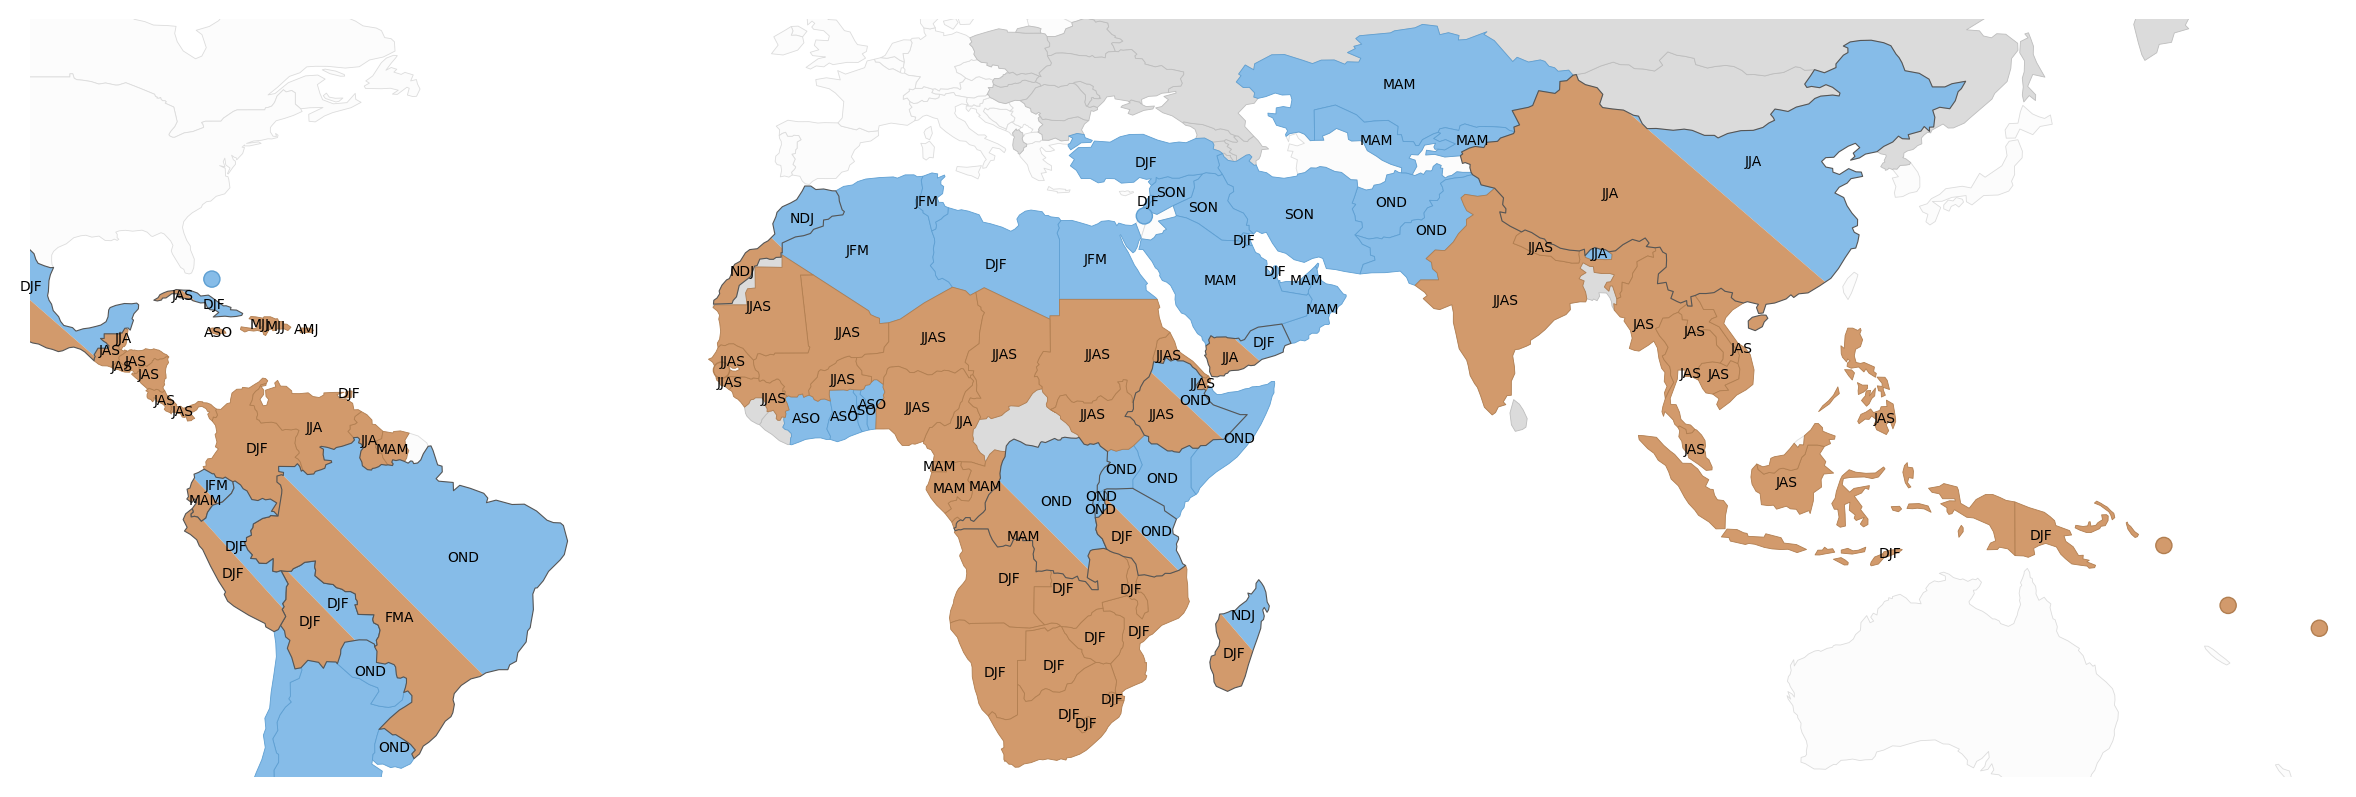
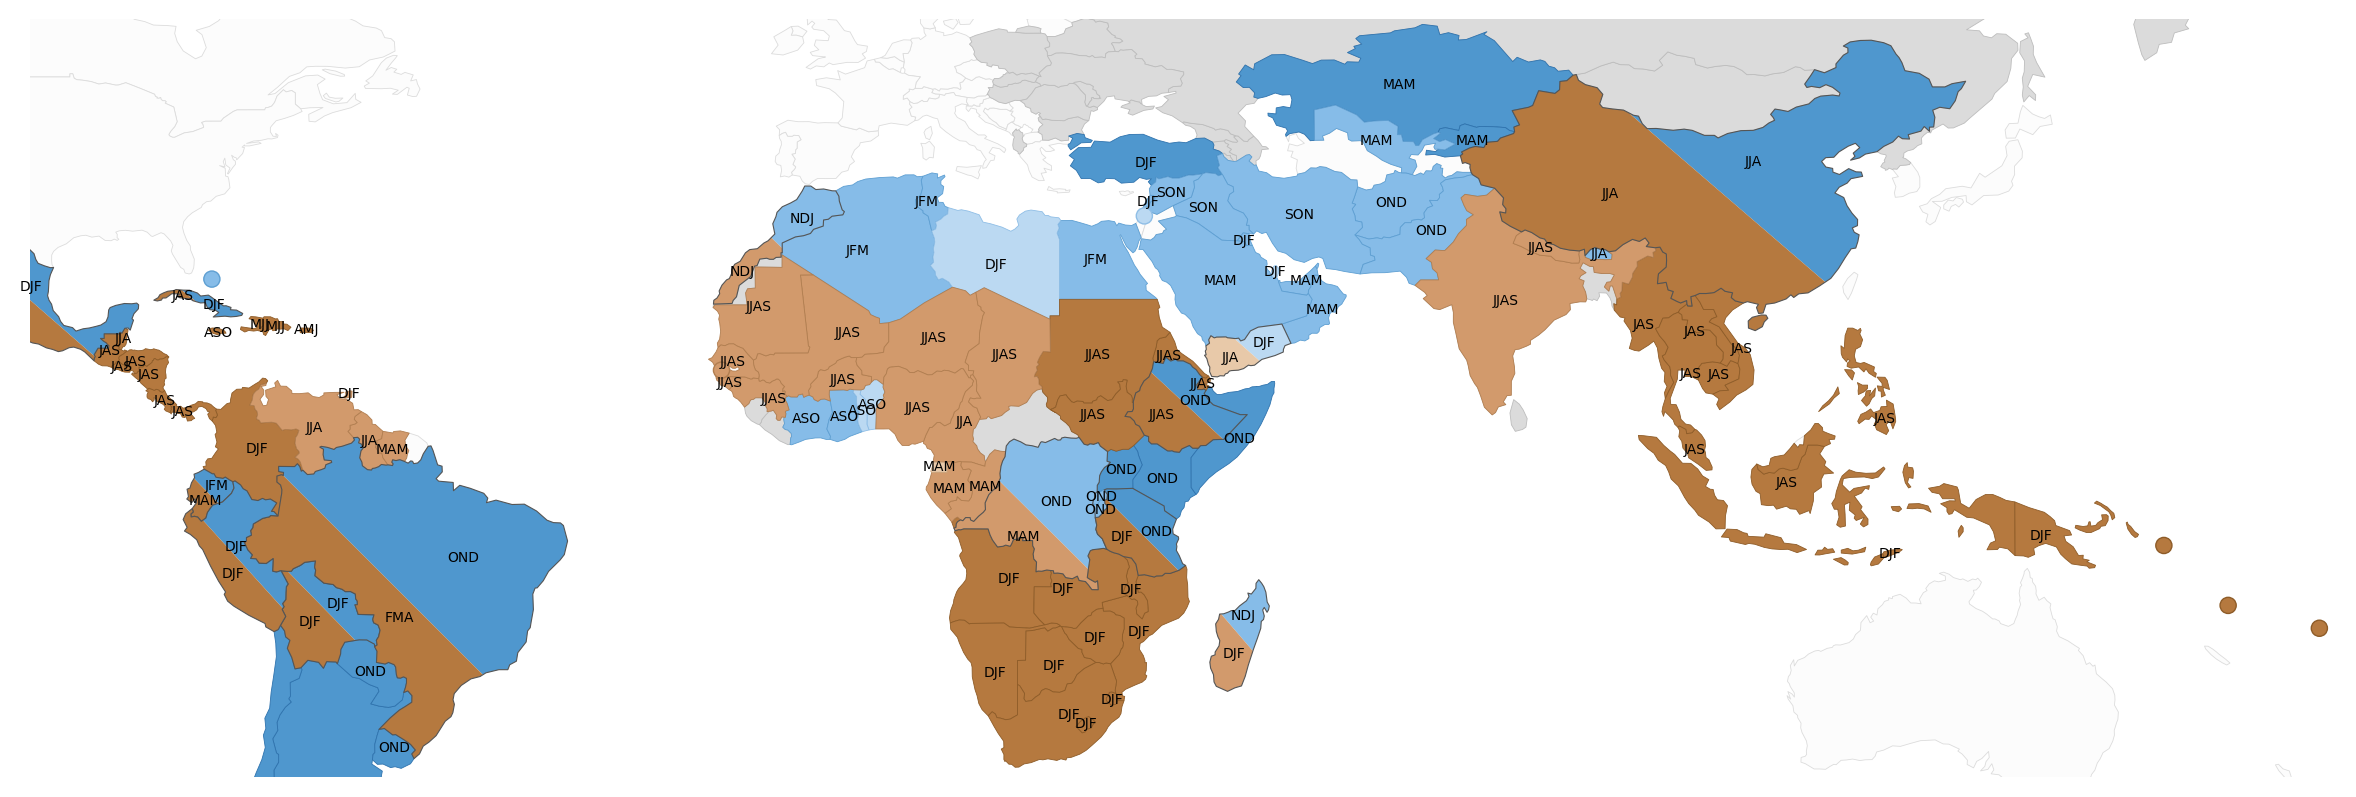
Shade the ENSO map by evidence strength (confidence)
Map fills now ramp by per-country evidence: robust = strong/dark, moderate =
mid, single-study = pale (both hues, both phases, and split halves). Adds
_LIT_EVIDENCE + _RAMP; legend shows the pale→dark = weak→robust ramp.

diff --git a/docs/index.html b/docs/index.html
@@ -639,7 +639,7 @@
       <div class="map-zoom" style="max-width:1140px;margin:0 auto;"><img src="maps/lit_enso_lanina.png" alt="Typical La Niña rainfall impacts across humanitarian-priority regions"></div>
       <p class="enso-note" style="margin:0.3rem auto 0;max-width:1140px;font-size:0.73rem;color:#666;">Showing <strong>La&nbsp;Niña</strong> — the typical (approximate) opposite of El&nbsp;Niño; ENSO is asymmetric, so the real La&nbsp;Niña pattern can differ in magnitude.</p>
     </div>
-    <div style="display:flex;flex-wrap:wrap;gap:0.4rem 1.1rem;font-size:0.72rem;color:#444;margin:0.5rem 0 0.2rem;"><span><span style="display:inline-block;width:0.9em;height:0.9em;border-radius:2px;vertical-align:middle;margin-right:0.3em;background:#D29A6C;border:1px solid #B17E50;"></span>drier</span><span><span style="display:inline-block;width:0.9em;height:0.9em;border-radius:2px;vertical-align:middle;margin-right:0.3em;background:#86BCE8;border:1px solid #5E9FD2;"></span>wetter</span><span><span style="display:inline-block;width:0.9em;height:0.9em;border-radius:2px;vertical-align:middle;margin-right:0.3em;background:linear-gradient(135deg,#86BCE8 50%,#D29A6C 50%);border:1px solid #777;"></span>Opposing signals by season (e.g. Ethiopia, Yemen)</span><span><span style="display:inline-block;width:0.9em;height:0.9em;border-radius:2px;vertical-align:middle;margin-right:0.3em;background:#DBDBDB;border:1px solid #BDBDBD;"></span>Monitored — no documented link</span><span><span style="display:inline-block;width:0.9em;height:0.9em;border-radius:2px;vertical-align:middle;margin-right:0.3em;background:#FCFCFC;border:1px solid #DCDCDC;"></span>Not monitored (not researched)</span></div>
+    <div style="display:flex;flex-wrap:wrap;gap:0.4rem 1.1rem;font-size:0.72rem;color:#444;margin:0.5rem 0 0.2rem;align-items:center;"><span style="margin-right:0.35em;"><span style="display:inline-block;width:0.9em;height:0.9em;border-radius:2px;vertical-align:middle;margin-right:0;background:#E8C9A9;border:1px solid #C9A57E;"></span><span style="display:inline-block;width:0.9em;height:0.9em;border-radius:2px;vertical-align:middle;margin-right:0;background:#D29A6C;border:1px solid #B17E50;"></span><span style="display:inline-block;width:0.9em;height:0.9em;border-radius:2px;vertical-align:middle;margin-right:0;background:#B5793F;border:1px solid #8E5C28;"></span></span><span style="margin-left:-0.2em;">drier</span><span style="margin-right:0.35em;"><span style="display:inline-block;width:0.9em;height:0.9em;border-radius:2px;vertical-align:middle;margin-right:0;background:#BBD9F2;border:1px solid #8FBEE6;"></span><span style="display:inline-block;width:0.9em;height:0.9em;border-radius:2px;vertical-align:middle;margin-right:0;background:#86BCE8;border:1px solid #5E9FD2;"></span><span style="display:inline-block;width:0.9em;height:0.9em;border-radius:2px;vertical-align:middle;margin-right:0;background:#4F97CE;border:1px solid #2F73AE;"></span></span><span style="margin-left:-0.2em;">wetter</span><span style="color:#777;">— shade = evidence: <span style="color:#aaa;">pale</span> single-study &rarr; <span style="color:#333;">dark</span> robust</span><span><span style="display:inline-block;width:0.9em;height:0.9em;border-radius:2px;vertical-align:middle;margin-right:0.3em;background:linear-gradient(135deg,#86BCE8 50%,#D29A6C 50%);border:1px solid #777;"></span>Opposing signals by season (split)</span><span><span style="display:inline-block;width:0.9em;height:0.9em;border-radius:2px;vertical-align:middle;margin-right:0.3em;background:#DBDBDB;border:1px solid #BDBDBD;"></span>Monitored — no documented link</span><span><span style="display:inline-block;width:0.9em;height:0.9em;border-radius:2px;vertical-align:middle;margin-right:0.3em;background:#FCFCFC;border:1px solid #DCDCDC;"></span>Not monitored (not researched)</span></div>
     <p class="enso-note" style="margin:0.2rem auto 0.9rem;max-width:1140px;font-size:0.73rem;color:#666;">
       Countries whose seasons respond in opposite directions (e.g. Ethiopia, Yemen, Brazil, Peru, China) are
       split; 3-month season codes (e.g. OND, JJAS, DJF) label each signal. <strong>Grey</strong> = monitored but

diff --git a/teleconnection_survey.py b/teleconnection_survey.py
@@ -1223,6 +1223,56 @@ _BROWN, _BROWN_E = "#D29A6C", "#B17E50"  # drier
 _GREY_NE, _GREY_NE_E = "#DBDBDB", "#BDBDBD"    # monitored, no documented link
 _GREY_NS, _GREY_NS_E = "#FCFCFC", "#DCDCDC"    # not monitored (near-white)
 
+# Per-country evidence strength -> map shade (robust dark, single-study pale)
+_LIT_EVIDENCE = {
+    "AFG": "moderate", "AGO": "robust", "ARE": "moderate", "ARG":
+    "robust", "ATG": "moderate", "BDI": "moderate", "BEN": "single-study",
+    "BES": "moderate", "BFA": "moderate", "BHS": "moderate", "BLZ":
+    "robust", "BOL": "robust", "BRA": "robust", "BRB": "moderate", "BTN":
+    "moderate", "BWA": "robust", "CHL": "robust", "CHN": "robust", "CIV":
+    "moderate", "CMR": "moderate", "COD": "moderate", "COG": "moderate",
+    "COL": "robust", "CPV": "moderate", "CRI": "robust", "CUB": "robust",
+    "CYM": "single-study", "DJI": "robust", "DMA": "single-study", "DOM":
+    "robust", "DZA": "moderate", "ECU": "robust", "EGY": "moderate",
+    "ERI": "robust", "ETH": "robust", "FJI": "robust", "FSM": "robust",
+    "GAB": "moderate", "GHA": "moderate", "GIN": "moderate", "GLP":
+    "single-study", "GMB": "moderate", "GNB": "moderate", "GNQ":
+    "single-study", "GRD": "single-study", "GTM": "robust", "GUF":
+    "single-study", "GUY": "moderate", "HND": "robust", "HTI": "robust",
+    "IDN": "robust", "IND": "moderate", "IRN": "moderate", "IRQ":
+    "moderate", "JAM": "robust", "KAZ": "robust", "KEN": "robust", "KGZ":
+    "robust", "KHM": "robust", "KIR": "robust", "KNA": "single-study",
+    "KWT": "moderate", "LAO": "robust", "LBN": "moderate", "LBY":
+    "single-study", "LCA": "single-study", "LSO": "robust", "MAR":
+    "moderate", "MDG": "moderate", "MDV": "moderate", "MEX": "robust",
+    "MHL": "robust", "MLI": "moderate", "MMR": "robust", "MOZ": "robust",
+    "MRT": "moderate", "MTQ": "single-study", "MWI": "robust", "MYS":
+    "robust", "NAM": "robust", "NER": "moderate", "NGA": "moderate",
+    "NIC": "robust", "OMN": "moderate", "PAK": "moderate", "PAN":
+    "robust", "PER": "robust", "PHL": "robust", "PNG": "robust", "PRI":
+    "robust", "PRY": "robust", "PSE": "single-study", "QAT":
+    "single-study", "RWA": "moderate", "SAU": "moderate", "SDN": "robust",
+    "SEN": "moderate", "SLB": "robust", "SLV": "robust", "SOM": "robust",
+    "SSD": "robust", "SUR": "moderate", "SWZ": "robust", "SYC":
+    "single-study", "SYR": "moderate", "TCA": "single-study", "TCD":
+    "moderate", "TGO": "single-study", "THA": "robust", "TLS": "robust",
+    "TON": "robust", "TTO": "moderate", "TUN": "moderate", "TUR":
+    "robust", "TZA": "robust", "UGA": "robust", "URY": "robust", "UZB":
+    "moderate", "VCT": "single-study", "VEN": "moderate", "VGB":
+    "single-study", "VIR": "moderate", "VNM": "robust", "VUT": "robust",
+    "YEM": "single-study", "ZAF": "robust", "ZMB": "robust", "ZWE":
+    "robust"
+}
+_RAMP = {
+    # (direction, evidence) -> (fill, edge).  direction 'wet' = El Nino wetter.
+    ("wet", "robust"):       ("#4F97CE", "#2F73AE"),
+    ("wet", "moderate"):     ("#86BCE8", "#5E9FD2"),
+    ("wet", "single-study"): ("#BBD9F2", "#8FBEE6"),
+    ("dry", "robust"):       ("#B5793F", "#8E5C28"),
+    ("dry", "moderate"):     ("#D29A6C", "#B17E50"),
+    ("dry", "single-study"): ("#E8C9A9", "#C9A57E"),
+}
+
 
 def plot_literature_enso_map(gdf: gpd.GeoDataFrame, out_dir: Path,
                              phase: str = "elnino") -> None:
@@ -1230,12 +1280,13 @@ def plot_literature_enso_map(gdf: gpd.GeoDataFrame, out_dir: Path,
     as the correlation maps, annotated with each signal's season. ``phase`` is
     'elnino' or 'lanina'; the La Niña map is the typical (approximate) opposite,
     since ENSO is asymmetric. Saved as maps/lit_enso_{phase}.png."""
-    # For El Niño: _LIT_WET → blue (wetter), _LIT_DRY → brown (drier).
-    # For La Niña: swap (typical opposite response).
-    if phase == "elnino":
-        wet_fill, dry_fill = (_BLUE, _BLUE_E), (_BROWN, _BROWN_E)
-    else:
-        wet_fill, dry_fill = (_BROWN, _BROWN_E), (_BLUE, _BLUE_E)
+    flip = phase == "lanina"
+
+    def _fill(direction, iso):
+        """(face, edge) by direction ('wet'/'dry'), country evidence, and phase."""
+        eff = ("dry" if direction == "wet" else "wet") if flip else direction
+        ev = _LIT_EVIDENCE.get(iso, "moderate")
+        return _RAMP.get((eff, ev), _RAMP[(eff, "moderate")])
 
     is_dot = gdf.geometry.apply(_is_dot_country)
     g_poly, g_dot = gdf[~is_dot], gdf[is_dot]
@@ -1255,10 +1306,14 @@ def plot_literature_enso_map(gdf: gpd.GeoDataFrame, out_dir: Path,
 
     wet_poly = g_poly[g_poly["iso3"].isin(_LIT_WET)]
     dry_poly = g_poly[g_poly["iso3"].isin(_LIT_DRY)]
-    if len(wet_poly):
-        wet_poly.plot(ax=ax, color=wet_fill[0], edgecolor=wet_fill[1], linewidth=0.3)
-    if len(dry_poly):
-        dry_poly.plot(ax=ax, color=dry_fill[0], edgecolor=dry_fill[1], linewidth=0.3)
+    # Shade by evidence strength (robust = strong, single-study = pale)
+    for direction, sub in (("wet", wet_poly), ("dry", dry_poly)):
+        for ev in ("robust", "moderate", "single-study"):
+            part = sub[sub["iso3"].map(lambda i: _LIT_EVIDENCE.get(i, "moderate")) == ev]
+            if len(part):
+                eff = ("dry" if direction == "wet" else "wet") if flip else direction
+                face, edge = _RAMP.get((eff, ev), _RAMP[(eff, "moderate")])
+                part.plot(ax=ax, color=face, edgecolor=edge, linewidth=0.3)
 
     def _label(x, y, text):
         ax.annotate(text, (x, y), ha="center", va="center", fontsize=5.0,
@@ -1279,10 +1334,10 @@ def plot_literature_enso_map(gdf: gpd.GeoDataFrame, out_dir: Path,
         upper, lower = _diagonal_halves(geom)
         if not upper.is_empty:
             gpd.GeoDataFrame(geometry=[upper], crs="EPSG:4326").plot(
-                ax=ax, color=wet_fill[0], edgecolor="none")
+                ax=ax, color=_fill("wet", row["iso3"])[0], edgecolor="none")
         if not lower.is_empty:
             gpd.GeoDataFrame(geometry=[lower], crs="EPSG:4326").plot(
-                ax=ax, color=dry_fill[0], edgecolor="none")
+                ax=ax, color=_fill("dry", row["iso3"])[0], edgecolor="none")
         gpd.GeoDataFrame(geometry=[geom], crs="EPSG:4326").plot(
             ax=ax, facecolor="none", edgecolor="#555", linewidth=0.4)
         wet_s, dry_s = _LIT_BI_SEASON.get(row["iso3"], ("", ""))
@@ -1296,9 +1351,9 @@ def plot_literature_enso_map(gdf: gpd.GeoDataFrame, out_dir: Path,
     for _, row in g_dot.iterrows():
         iso = row["iso3"]
         if iso in _LIT_WET:
-            face, edge = wet_fill
+            face, edge = _fill("wet", iso)
         elif iso in _LIT_DRY:
-            face, edge = dry_fill
+            face, edge = _fill("dry", iso)
         else:
             continue
         cx, cy = _dot_center(row.geometry)
@@ -1562,7 +1617,7 @@ def generate_html_report(cfg: dict) -> None:
       <div class="map-zoom" style="max-width:1140px;margin:0 auto;"><img src="maps/lit_enso_lanina.png" alt="Typical La Niña rainfall impacts across humanitarian-priority regions"></div>
       <p class="enso-note" style="margin:0.3rem auto 0;max-width:1140px;font-size:0.73rem;color:#666;">Showing <strong>La&nbsp;Niña</strong> — the typical (approximate) opposite of El&nbsp;Niño; ENSO is asymmetric, so the real La&nbsp;Niña pattern can differ in magnitude.</p>
     </div>
-    <div style="display:flex;flex-wrap:wrap;gap:0.4rem 1.1rem;font-size:0.72rem;color:#444;margin:0.5rem 0 0.2rem;"><span><span style="display:inline-block;width:0.9em;height:0.9em;border-radius:2px;vertical-align:middle;margin-right:0.3em;background:#D29A6C;border:1px solid #B17E50;"></span>drier</span><span><span style="display:inline-block;width:0.9em;height:0.9em;border-radius:2px;vertical-align:middle;margin-right:0.3em;background:#86BCE8;border:1px solid #5E9FD2;"></span>wetter</span><span><span style="display:inline-block;width:0.9em;height:0.9em;border-radius:2px;vertical-align:middle;margin-right:0.3em;background:linear-gradient(135deg,#86BCE8 50%,#D29A6C 50%);border:1px solid #777;"></span>Opposing signals by season (e.g. Ethiopia, Yemen)</span><span><span style="display:inline-block;width:0.9em;height:0.9em;border-radius:2px;vertical-align:middle;margin-right:0.3em;background:#DBDBDB;border:1px solid #BDBDBD;"></span>Monitored — no documented link</span><span><span style="display:inline-block;width:0.9em;height:0.9em;border-radius:2px;vertical-align:middle;margin-right:0.3em;background:#FCFCFC;border:1px solid #DCDCDC;"></span>Not monitored (not researched)</span></div>
+    <div style="display:flex;flex-wrap:wrap;gap:0.4rem 1.1rem;font-size:0.72rem;color:#444;margin:0.5rem 0 0.2rem;align-items:center;"><span style="margin-right:0.35em;"><span style="display:inline-block;width:0.9em;height:0.9em;border-radius:2px;vertical-align:middle;margin-right:0;background:#E8C9A9;border:1px solid #C9A57E;"></span><span style="display:inline-block;width:0.9em;height:0.9em;border-radius:2px;vertical-align:middle;margin-right:0;background:#D29A6C;border:1px solid #B17E50;"></span><span style="display:inline-block;width:0.9em;height:0.9em;border-radius:2px;vertical-align:middle;margin-right:0;background:#B5793F;border:1px solid #8E5C28;"></span></span><span style="margin-left:-0.2em;">drier</span><span style="margin-right:0.35em;"><span style="display:inline-block;width:0.9em;height:0.9em;border-radius:2px;vertical-align:middle;margin-right:0;background:#BBD9F2;border:1px solid #8FBEE6;"></span><span style="display:inline-block;width:0.9em;height:0.9em;border-radius:2px;vertical-align:middle;margin-right:0;background:#86BCE8;border:1px solid #5E9FD2;"></span><span style="display:inline-block;width:0.9em;height:0.9em;border-radius:2px;vertical-align:middle;margin-right:0;background:#4F97CE;border:1px solid #2F73AE;"></span></span><span style="margin-left:-0.2em;">wetter</span><span style="color:#777;">— shade = evidence: <span style="color:#aaa;">pale</span> single-study &rarr; <span style="color:#333;">dark</span> robust</span><span><span style="display:inline-block;width:0.9em;height:0.9em;border-radius:2px;vertical-align:middle;margin-right:0.3em;background:linear-gradient(135deg,#86BCE8 50%,#D29A6C 50%);border:1px solid #777;"></span>Opposing signals by season (split)</span><span><span style="display:inline-block;width:0.9em;height:0.9em;border-radius:2px;vertical-align:middle;margin-right:0.3em;background:#DBDBDB;border:1px solid #BDBDBD;"></span>Monitored — no documented link</span><span><span style="display:inline-block;width:0.9em;height:0.9em;border-radius:2px;vertical-align:middle;margin-right:0.3em;background:#FCFCFC;border:1px solid #DCDCDC;"></span>Not monitored (not researched)</span></div>
     <p class="enso-note" style="margin:0.2rem auto 0.9rem;max-width:1140px;font-size:0.73rem;color:#666;">
       Countries whose seasons respond in opposite directions (e.g. Ethiopia, Yemen, Brazil, Peru, China) are
       split; 3-month season codes (e.g. OND, JJAS, DJF) label each signal. <strong>Grey</strong> = monitored but
